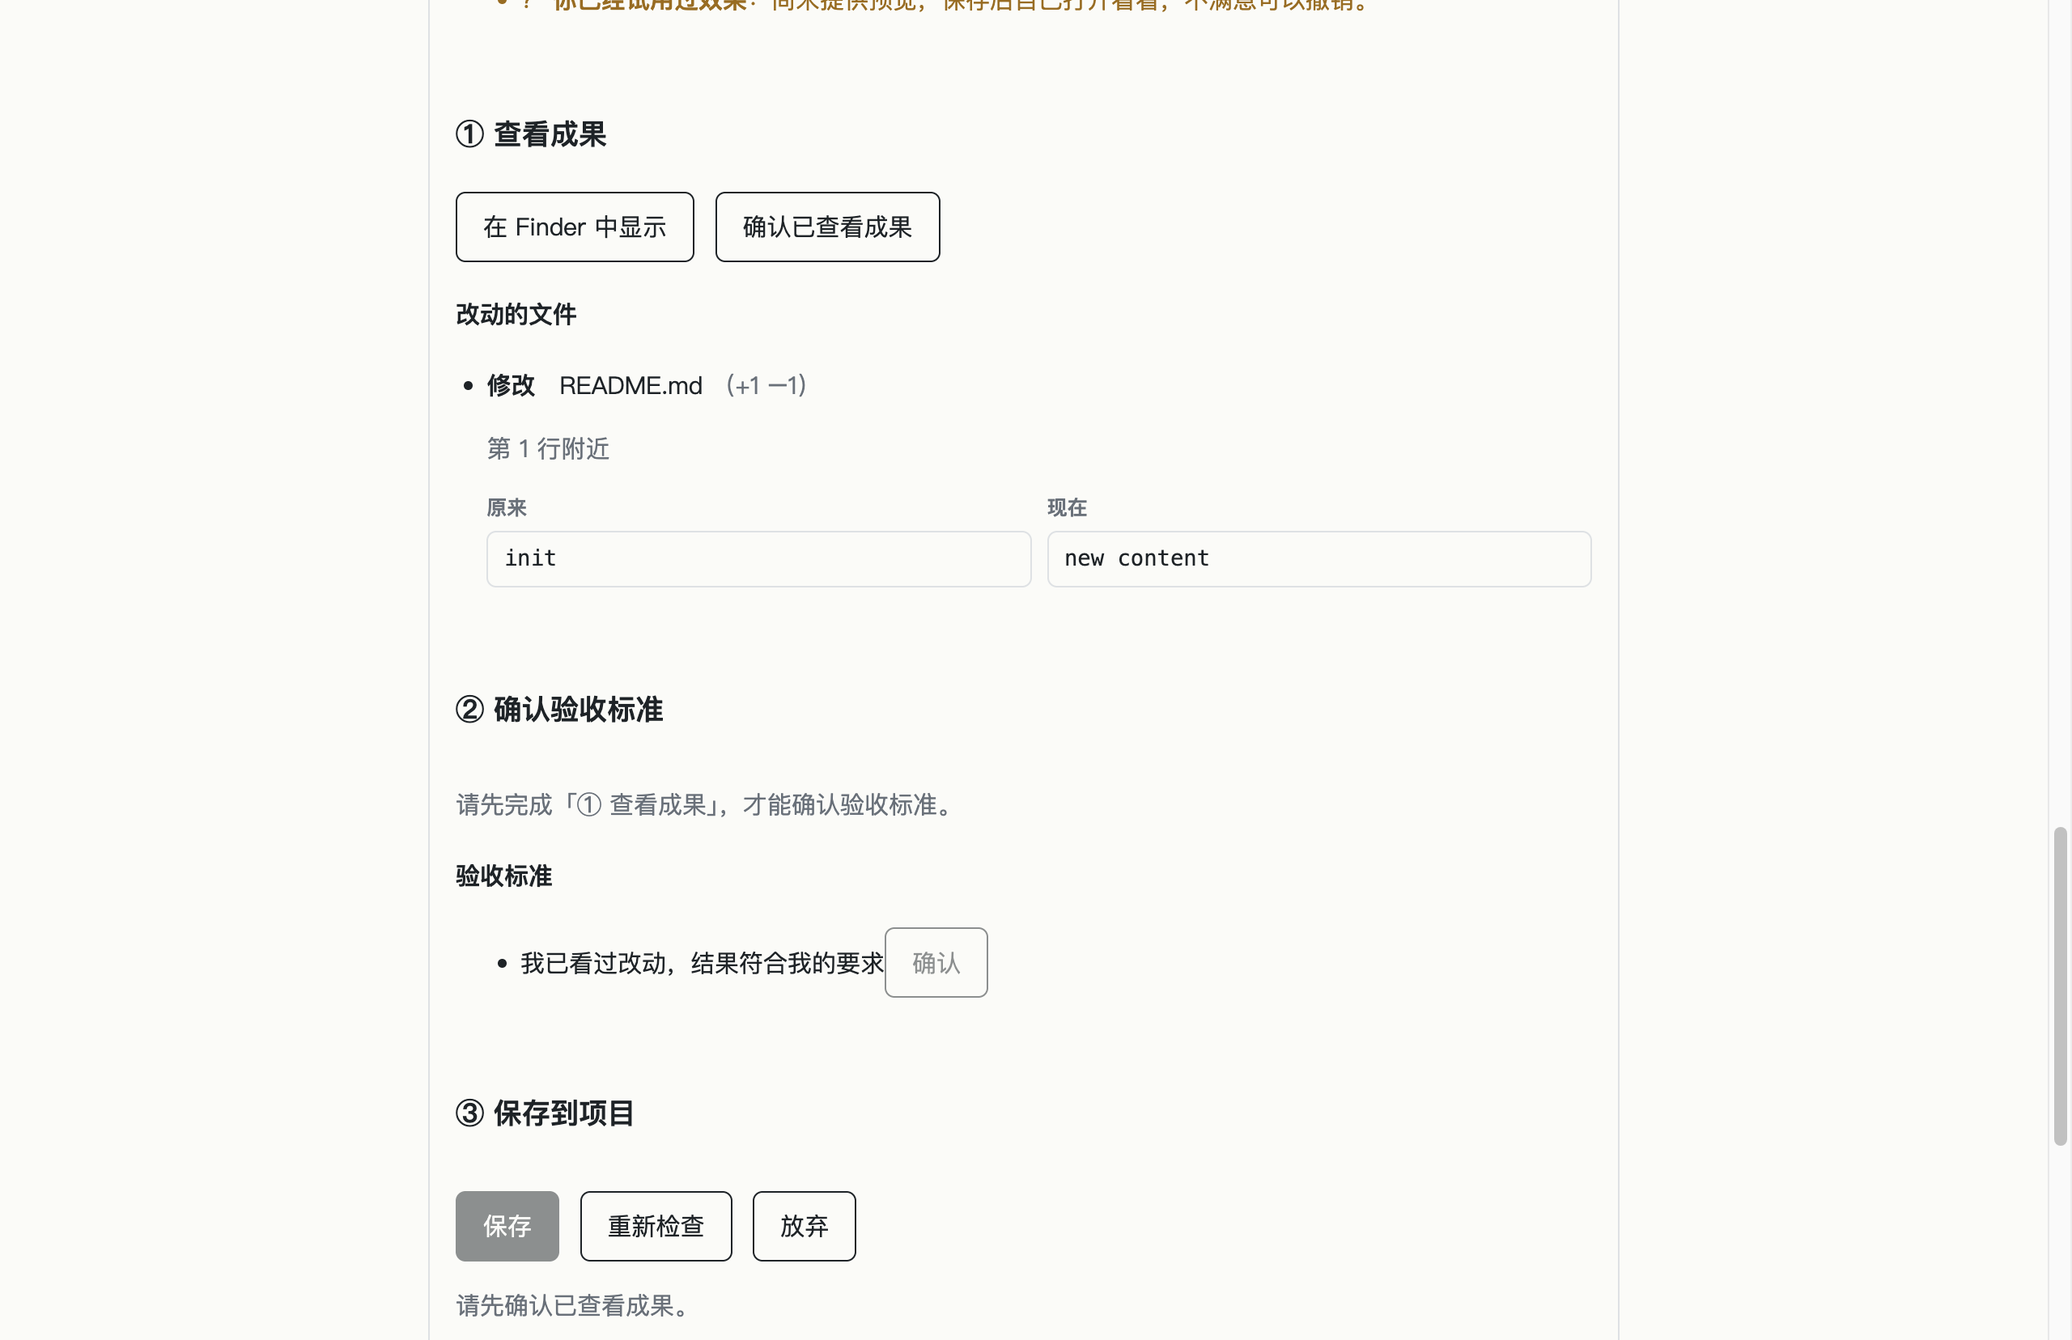
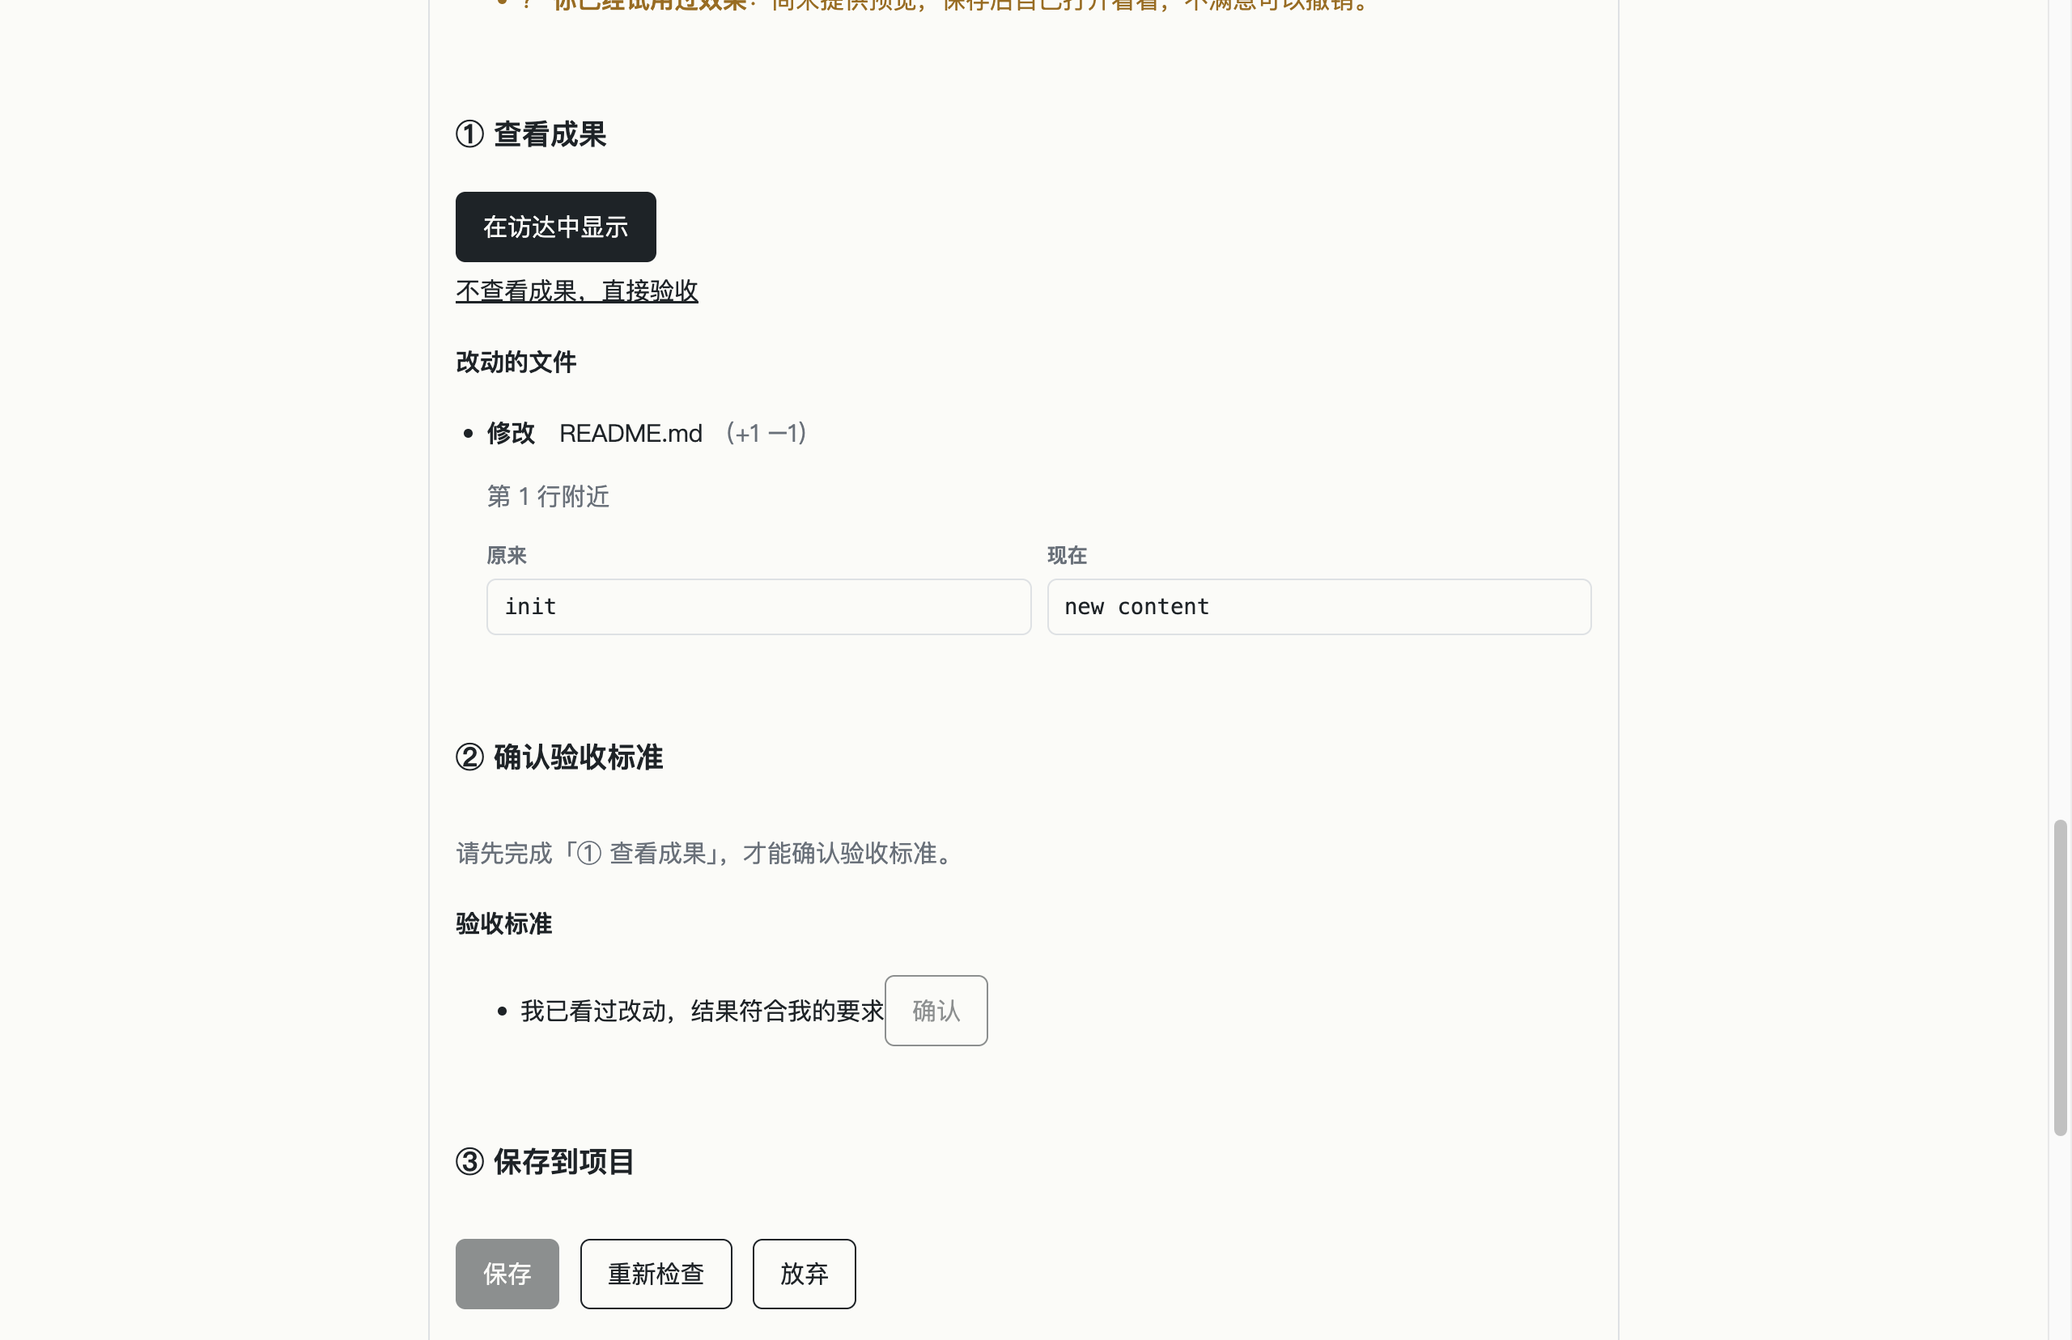
fix(acceptance): replace confirmPreview with explicit skipPreview choice and persist skip state

diff --git a/src/renderer/Acceptance.tsx b/src/renderer/Acceptance.tsx
@@ -50,7 +50,7 @@ function Preview({ p }: { p: ChangePreview }) {
   );
 }
 
-type Dialog = 'discard' | 'undo' | null;
+type Dialog = 'discard' | 'undo' | 'skipPreview' | null;
 
 /**
  * 验收与结果：只使用主进程给的用户验收视图（UserAcceptanceView）。
@@ -170,12 +170,15 @@ export function Acceptance({ task, onChanged }: { task: TaskView; onChanged: () 
               <section data-testid="step-1">
                 <div className="head">
                   <h3>① 查看成果</h3>
-                  {step1Completed && <span className="badge-checked" data-testid="step1-status">✓ 已查看成果</span>}
+                  {step1Completed && (
+                    <span className="badge-checked" data-testid="step1-status">
+                      {v.preview?.skipped ? '已跳过查看' : '✓ 已查看成果'}
+                    </span>
+                  )}
                 </div>
-                <div className="row" style={{ marginTop: '0.25rem', marginBottom: '0.75rem' }}>
-                  {v.preview?.kind && (
+                <div className="row" style={{ marginTop: '0.25rem', marginBottom: '0.75rem', flexDirection: 'column', alignItems: 'flex-start', gap: '0.35rem' }}>
+                  {v.preview?.kind && !v.preview?.completed && (
                     <button
-                      className="secondary"
                       data-testid="preview-button"
                       disabled={pending}
                       onClick={() => run((s) => s.openPreview(v.taskId, v.version))}
@@ -184,16 +187,20 @@ export function Acceptance({ task, onChanged }: { task: TaskView; onChanged: () 
                     </button>
                   )}
                   {!v.preview?.completed ? (
-                    <button
-                      className="secondary"
-                      data-testid="confirm-preview"
-                      disabled={pending}
-                      onClick={() => run((s) => s.confirmPreview(v.taskId, v.version))}
-                    >
-                      确认已查看成果
-                    </button>
+                    <div>
+                      <button
+                        className="link"
+                        data-testid="skip-preview"
+                        disabled={pending}
+                        onClick={() => setDialog('skipPreview')}
+                      >
+                        不查看成果，直接验收
+                      </button>
+                    </div>
                   ) : (
-                    <span className="muted" data-testid="preview-done">已完成成果查看</span>
+                    <span className="muted" data-testid="preview-done">
+                      {v.preview?.skipped ? '已跳过查看' : '已完成成果查看'}
+                    </span>
                   )}
                 </div>
                 {v.changes.length > 0 && (
@@ -387,10 +394,29 @@ export function Acceptance({ task, onChanged }: { task: TaskView; onChanged: () 
 
           {dialog && (
             <div className="confirm-panel" role="alertdialog" aria-modal="true" data-testid="confirm-panel" data-kind={dialog}>
-              <p data-testid="confirm-text">{dialog === 'discard' ? v.confirmTexts.discard : v.confirmTexts.undo}</p>
+              <p data-testid="confirm-text">
+                {dialog === 'discard'
+                  ? v.confirmTexts.discard
+                  : dialog === 'undo'
+                    ? v.confirmTexts.undo
+                    : '你还没有查看 AI 做出的成果，确定直接进入验收吗？'}
+              </p>
               <div className="row">
-                <button data-testid="confirm-yes" onClick={() => run((s) => (dialog === 'discard' ? s.discardTask(v.taskId) : s.undoSave(v.taskId)))}>{dialog === 'discard' ? COPY.discardYes : COPY.undoYes}</button>
-                <button className="secondary" data-testid="confirm-no" onClick={() => setDialog(null)}>{COPY.cancel}</button>
+                <button
+                  data-testid="confirm-yes"
+                  onClick={() =>
+                    run((s) => {
+                      if (dialog === 'discard') return s.discardTask(v.taskId);
+                      if (dialog === 'undo') return s.undoSave(v.taskId);
+                      return s.skipPreview(v.taskId, v.version);
+                    })
+                  }
+                >
+                  {dialog === 'discard' ? COPY.discardYes : dialog === 'undo' ? COPY.undoYes : '确定直接进入验收'}
+                </button>
+                <button className="secondary" data-testid="confirm-no" onClick={() => setDialog(null)}>
+                  {COPY.cancel}
+                </button>
               </div>
             </div>
           )}

diff --git a/src/core/task/runner.ts b/src/core/task/runner.ts
@@ -140,6 +140,7 @@ export class TaskRunner extends EventEmitter {
       denied: [],
       deniedAcks: [],
       previewed: false,
+      previewSkipped: false,
       timeline: [],
       createdAt: now,
       updatedAt: now,
@@ -408,6 +409,7 @@ export class TaskRunner extends EventEmitter {
       if (!['reviewing', 'save_failed_unmerged'].includes(t.state) || !t.worktree) throw new Error('任务不在验收阶段。');
       t.criteria.forEach((c) => delete c.decision);
       t.previewed = false;
+      t.previewSkipped = false;
       t.overallConfirmed = false;
       t.deniedAcks = t.denied.map(() => false);
       await this.buildEvidence(t);
@@ -419,7 +421,7 @@ export class TaskRunner extends EventEmitter {
   }
 
   /** 用户对验收标准逐条确认/否决，或标记已试用。只改用户输入，不改自动检查结果。 */
-  async confirm(id: string, update: { criterion?: number; decision?: 'confirmed' | 'rejected'; previewed?: boolean; deniedAck?: number; overall?: boolean }) {
+  async confirm(id: string, update: { criterion?: number; decision?: 'confirmed' | 'rejected'; previewed?: boolean; previewSkipped?: boolean; deniedAck?: number; overall?: boolean }) {
     if (!this.enter(id)) throw new Error(MESSAGES.busy); // 与保存/放弃/撤销/重新检查互斥，避免同时改同一份记录
     try {
       return await this.confirmInner(id, update);
@@ -428,7 +430,7 @@ export class TaskRunner extends EventEmitter {
     }
   }
 
-  private async confirmInner(id: string, update: { criterion?: number; decision?: 'confirmed' | 'rejected'; previewed?: boolean; deniedAck?: number; overall?: boolean }) {
+  private async confirmInner(id: string, update: { criterion?: number; decision?: 'confirmed' | 'rejected'; previewed?: boolean; previewSkipped?: boolean; deniedAck?: number; overall?: boolean }) {
     const t = await this.load(id);
     if (t.state !== 'reviewing' || !t.card) throw new Error('任务不在验收阶段。');
     if (t.card.items.some((i) => i.key === 'drivers')) throw new Error(MESSAGES.externalDriver);
@@ -441,7 +443,14 @@ export class TaskRunner extends EventEmitter {
       if (!c || !update.decision) throw new Error('无效的验收标准。');
       c.decision = update.decision;
     }
-    if (update.previewed !== undefined) t.previewed = update.previewed;
+    if (update.previewed !== undefined) {
+      t.previewed = update.previewed;
+      if (update.previewed) t.previewSkipped = false;
+    }
+    if (update.previewSkipped !== undefined) {
+      t.previewSkipped = update.previewSkipped;
+      if (update.previewSkipped) t.previewed = false;
+    }
     if (update.deniedAck !== undefined) {
       if (!t.denied[update.deniedAck]) throw new Error('无效的被拒绝操作。');
       t.deniedAcks[update.deniedAck] = true;
@@ -480,6 +489,7 @@ export class TaskRunner extends EventEmitter {
     const t = await this.load(id);
     t.criteria.forEach((c) => delete c.decision);
     t.previewed = false;
+    t.previewSkipped = false;
     t.overallConfirmed = false;
     delete t.acceptedTree;
     delete t.checksVoid;

diff --git a/tests/b4-2-controller.test.ts b/tests/b4-2-controller.test.ts
@@ -408,7 +408,7 @@ describe('重启后状态一致、成果片段、启动核对', () => {
       expect((opened as { kind: string; targetPath: string } | null)?.targetPath).toMatch(/index\.html$/);
     });
 
-    it('产物不含 index.html → preview.kind 为 finder，按钮为“在 Finder 中显示”；调用 openPreview 打开目录', async () => {
+    it('产物不含 index.html → preview.kind 为 finder，按钮为“在访达中显示”；调用 openPreview 打开目录', async () => {
       let opened: { kind: string; targetPath: string } | null = null;
       const { id, ctl } = await setup({
         script: [{ do: 'write', path: 'readme.txt', content: 'hello' }],
@@ -417,7 +417,7 @@ describe('重启后状态一致、成果片段、启动核对', () => {
       });
       const v = await ctl.getAcceptanceView(id);
       expect(v.preview.kind).toBe('finder');
-      expect(v.preview.buttonText).toBe('在 Finder 中显示');
+      expect(v.preview.buttonText).toBe('在访达中显示');
       expect(v.preview.completed).toBe(false);
 
       const r = await ctl.openPreview(id, v.version);
@@ -427,19 +427,24 @@ describe('重启后状态一致、成果片段、启动核对', () => {
       expect(opened).toMatchObject({ kind: 'finder' });
     });
 
-    it('直接调用 confirmPreview → 同样能标记预览完成，无需触发外部打开', async () => {
+    it('直接调用 skipPreview → 标记为已跳过查看并完成步骤 ①，无需触发外部打开', async () => {
       let called = false;
-      const { id, ctl } = await setup({
+      const { id, ctl, repo } = await setup({
         script: [{ do: 'write', path: 'readme.txt', content: 'hello' }],
         files: { 'readme.txt': 'init' },
         openPreview: async () => { called = true; },
       });
       const v = await ctl.getAcceptanceView(id);
-      const r = await ctl.confirmPreview(id, v.version);
+      const r = await ctl.skipPreview(id, v.version);
       expect(r.ok).toBe(true);
-      expect(r.message).toContain('已确认查看成果');
+      expect(r.message).toContain('已跳过查看成果');
       expect(r.view.preview.completed).toBe(true);
+      expect(r.view.preview.skipped).toBe(true);
       expect(called).toBe(false);
+
+      const t = await taskOf(repo, id);
+      expect(t.previewed).toBe(false);
+      expect(t.previewSkipped).toBe(true);
     });
 
     it('模拟打开失败 → previewed 仍为 false，第 ② 步仍锁定', async () => {

diff --git a/tests/security.test.ts b/tests/security.test.ts
@@ -274,7 +274,7 @@ describe('安全基线（防回归）', () => {
     // B3-2 修订（任务界面必需的新 API；原清单是前 8 项）：清单仍然固定，参数形态逐一列出——
     // 只允许 编号 / 布尔 / 需求文字 / 计划表单（文字、模式、布尔）/ 选项键；任何参数都不得叫 path/dir/folder/file，
     // 额外文件夹由主进程弹系统选择框取得，渲染进程不传路径。
-    expect(entries.map((e) => e.name)).toEqual(['detectEnvironment', 'chooseProject', 'recentProjects', 'openRecent', 'projectStatus', 'initProject', 'getDisclosure', 'acceptDisclosure', 'listTasks', 'createTask', 'getTask', 'savePlan', 'addExtraDir', 'removeExtraDir', 'startTask', 'stopTask', 'getAcceptanceView', 'openPreview', 'confirmPreview', 'confirmCriterion', 'confirmOverall', 'ackDenied', 'recheck', 'saveTask', 'discardTask', 'undoSave', 'retryCleanup', 'revealProject']);
+    expect(entries.map((e) => e.name)).toEqual(['detectEnvironment', 'chooseProject', 'recentProjects', 'openRecent', 'projectStatus', 'initProject', 'getDisclosure', 'acceptDisclosure', 'listTasks', 'createTask', 'getTask', 'savePlan', 'addExtraDir', 'removeExtraDir', 'startTask', 'stopTask', 'getAcceptanceView', 'openPreview', 'skipPreview', 'confirmCriterion', 'confirmOverall', 'ackDenied', 'recheck', 'saveTask', 'discardTask', 'undoSave', 'retryCleanup', 'revealProject']);
     // B4-2 修订（只增不减）：新增 10 个方法（9 个验收操作 + 1 个无参数的 revealProject）；新增的参数形态只有
     // “编号 / 条目编号 / 验收版本（字符串）”，原有形态一个不变。
     const SHAPES = ['', 'id: string', 'consent: boolean', 'request: string', 'id: string, plan: PlanInput', 'id: string, key: string', 'id: string, ack: boolean', 'id: string, version: string', 'id: string, itemId: string, version: string'];
@@ -463,7 +463,7 @@ describe('安全基线（防回归）', () => {
       const NEW: Record<string, string> = {
         getAcceptanceView: 'id: string',
         openPreview: 'id: string, version: string',
-        confirmPreview: 'id: string, version: string',
+        skipPreview: 'id: string, version: string',
         confirmCriterion: 'id: string, itemId: string, version: string',
         confirmOverall: 'id: string, version: string',
         ackDenied: 'id: string, itemId: string, version: string',

diff --git a/src/main/index.ts b/src/main/index.ts
@@ -180,7 +180,7 @@ ipcMain.handle('tasks:stop', async (_e, id: unknown) => (await tasks()).stop(id)
 // B4-2：验收、保存、放弃、撤销。参数只有任务编号、条目编号（c0 / d0）与验收版本；格式由控制器校验，伪造参数一律拒绝。
 ipcMain.handle('acceptance:get', async (_e, id: unknown) => (await tasks()).getAcceptanceView(id));
 ipcMain.handle('acceptance:openPreview', async (_e, id: unknown, version: unknown) => (await tasks()).openPreview(id, version));
-ipcMain.handle('acceptance:confirmPreview', async (_e, id: unknown, version: unknown) => (await tasks()).confirmPreview(id, version));
+ipcMain.handle('acceptance:skipPreview', async (_e, id: unknown, version: unknown) => (await tasks()).skipPreview(id, version));
 ipcMain.handle('acceptance:confirmCriterion', async (_e, id: unknown, itemId: unknown, version: unknown) => (await tasks()).confirmCriterion(id, itemId, version));
 ipcMain.handle('acceptance:confirmOverall', async (_e, id: unknown, version: unknown) => (await tasks()).confirmOverall(id, version));
 ipcMain.handle('acceptance:ackDenied', async (_e, id: unknown, itemId: unknown, version: unknown) => (await tasks()).ackDenied(id, itemId, version));

diff --git a/src/core/app/task-controller.ts b/src/core/app/task-controller.ts
@@ -240,11 +240,11 @@ export class TaskController {
           ctx.previewButtonText = '在浏览器中打开预览';
         } else {
           ctx.previewKind = 'finder';
-          ctx.previewButtonText = '在 Finder 中显示';
+          ctx.previewButtonText = '在访达中显示';
         }
       } catch {
         ctx.previewKind = 'finder';
-        ctx.previewButtonText = '在 Finder 中显示';
+        ctx.previewButtonText = '在访达中显示';
       }
     }
     if (!busy && !t.manualReview) {
@@ -343,12 +343,12 @@ export class TaskController {
     });
   }
 
-  async confirmPreview(id: unknown, version: unknown): Promise<AcceptanceActionResult> {
+  async skipPreview(id: unknown, version: unknown): Promise<AcceptanceActionResult> {
     const tid = this.checkArg(TASK_ID, id);
     const v = this.checkVersion(version);
     return this.act(tid, this.confirmWork(v, async (t) => {
-      await this.r().confirm(t.id, { previewed: true });
-      return '已确认查看成果';
+      await this.r().confirm(t.id, { previewSkipped: true });
+      return '已跳过查看成果';
     }));
   }
 

diff --git a/src/core/acceptance/view.ts b/src/core/acceptance/view.ts
@@ -71,6 +71,7 @@ export interface UserAcceptanceView {
     kind: 'web' | 'finder' | null;
     buttonText: string;
     completed: boolean;
+    skipped?: boolean;
   };
 }
 
@@ -357,8 +358,9 @@ export function toUserView(t: Task, ctx: ViewContext = { busy: false }): UserAcc
     version: acceptanceVersion(t),
     preview: {
       kind: ctx.previewKind !== undefined ? ctx.previewKind : (t.worktree?.path ? 'finder' : null),
-      buttonText: ctx.previewButtonText ?? ((ctx.previewKind ?? (t.worktree?.path ? 'finder' : null)) === 'web' ? '在浏览器中打开预览' : '在 Finder 中显示'),
-      completed: !!t.previewed,
+      buttonText: ctx.previewButtonText ?? ((ctx.previewKind ?? (t.worktree?.path ? 'finder' : null)) === 'web' ? '在浏览器中打开预览' : '在访达中显示'),
+      completed: !!t.previewed || !!t.previewSkipped,
+      skipped: !t.previewed && !!t.previewSkipped,
     },
   };
 }

diff --git a/src/renderer/api.ts b/src/renderer/api.ts
@@ -54,7 +54,7 @@ interface StudioApi {
   stopTask(id: string): Promise<TaskView>;
   getAcceptanceView(id: string): Promise<UserAcceptanceView>;
   openPreview(id: string, version: string): Promise<AcceptanceActionResult>;
-  confirmPreview(id: string, version: string): Promise<AcceptanceActionResult>;
+  skipPreview(id: string, version: string): Promise<AcceptanceActionResult>;
   confirmCriterion(id: string, itemId: string, version: string): Promise<AcceptanceActionResult>;
   confirmOverall(id: string, version: string): Promise<AcceptanceActionResult>;
   ackDenied(id: string, itemId: string, version: string): Promise<AcceptanceActionResult>;

diff --git a/src/core/task/model.ts b/src/core/task/model.ts
@@ -78,6 +78,7 @@ export interface Task {
   deniedAcks: boolean[];
   criteria: CriterionState[];
   previewed: boolean;
+  previewSkipped?: boolean;
   card?: AcceptanceCard;
   /** 批准时授权的检查脚本内容摘要（package.json 的 build/test 及 pre/post 脚本）；摘要变化则授权失效 */
   checkAuth?: { digest: string; at: string };
